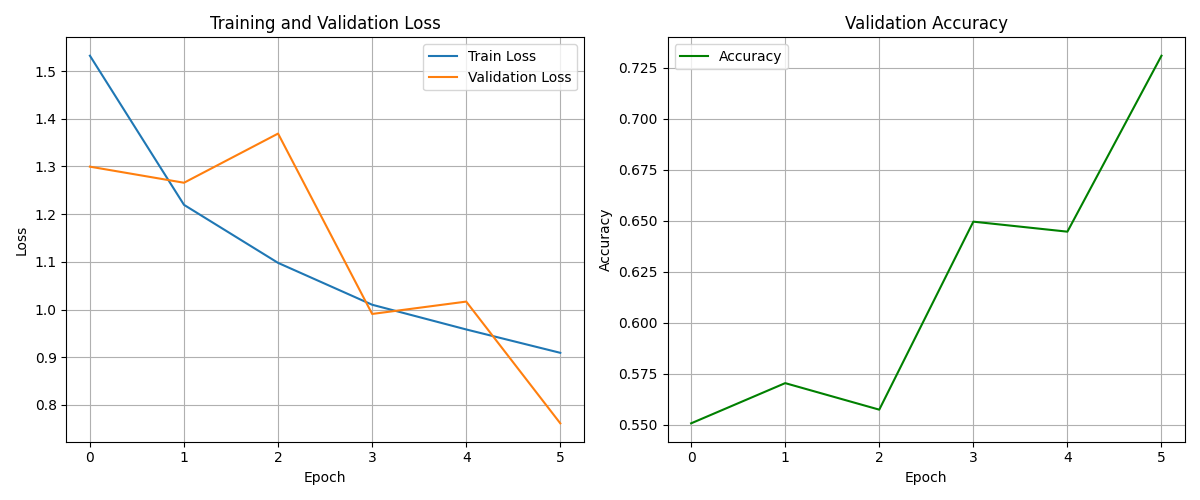
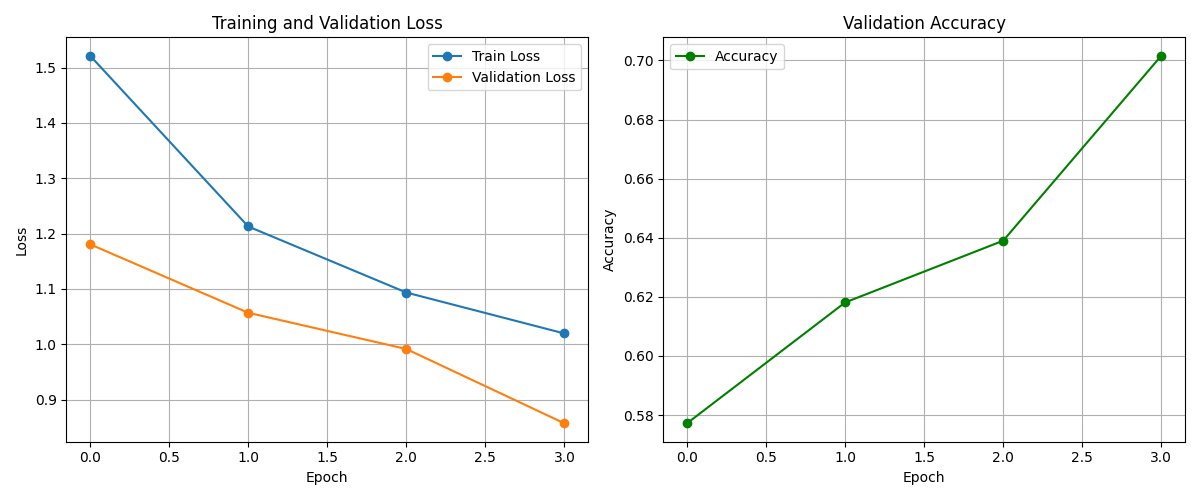
satge 3 result last update for the report

diff --git a/script/stage_3_script/script_CNN.py b/script/stage_3_script/script_CNN.py
@@ -13,10 +13,11 @@ def get_data_path(dataset_name):
     data_path = PROJECT_ROOT / 'data' / 'stage_3_data' / dataset_name
     return str(data_path)
 
-def save_results(dataset_name, metrics):
+def save_results(dataset_name, metrics, epoch_count):
     result_path = RESULT_DIR / f'results_{dataset_name}.txt'
     with open(result_path, 'w') as f:
         f.write(f"Final Evaluation for {dataset_name}:\n")
+        f.write(f"Epochs Run: {epoch_count}\n")
         f.write(f"Loss: {metrics['loss']:.4f}\n")
         f.write(f"Accuracy: {metrics['accuracy']:.4f}\n")
         f.write(f"Precision: {metrics['precision']:.4f}\n")
@@ -37,12 +38,14 @@ def train_and_evaluate(dataset_name, data_path):
     test_loader = prepare_data(data['test'], dataset_name, model.batch_size)
 
     # Train model
-    best_accuracy = model.train_model(train_loader, test_loader)
+    #best_accuracy = model.train_model(train_loader, test_loader)
+    best_accuracy, epoch_count = model.train_model(train_loader, test_loader) #want to count epoch
 
     # Final evaluation
     metrics = model.evaluate(test_loader)
 
     print(f"\nFinal Evaluation for {dataset_name}:")
+    print(f"Epochs Run: {epoch_count}")
     print(f"Loss: {metrics['loss']:.4f}")
     print(f"Accuracy: {metrics['accuracy']:.4f}")
     print(f"Precision: {metrics['precision']:.4f}")
@@ -50,12 +53,12 @@ def train_and_evaluate(dataset_name, data_path):
     print(f"F1 Score: {metrics['f1']:.4f}")
 
     # Save results
-    save_results(dataset_name, metrics)
+    save_results(dataset_name, metrics, epoch_count)
 
     return metrics
 
 # Example usage:
-#ORL_results = train_and_evaluate('ORL', get_data_path('ORL'))
+ORL_results = train_and_evaluate('ORL', get_data_path('ORL'))
 MNIST_results = train_and_evaluate('MNIST', get_data_path('MNIST'))
-#CIFAR10_results = train_and_evaluate('CIFAR10', get_data_path('CIFAR'))
+CIFAR10_results = train_and_evaluate('CIFAR10', get_data_path('CIFAR'))
 

diff --git a/code/stage_3_code/Method_CNN.py b/code/stage_3_code/Method_CNN.py
@@ -133,7 +133,8 @@ class Method_CNN(nn.Module):
 
         self.load_state_dict(best_model)
         self.plot_history(train_loss_history, val_loss_history, accuracy_history)
-        return best_accuracy
+        #return best_accuracy
+        return best_accuracy, epoch + 1
 
     def evaluate(self, data_loader):
         self.eval()
